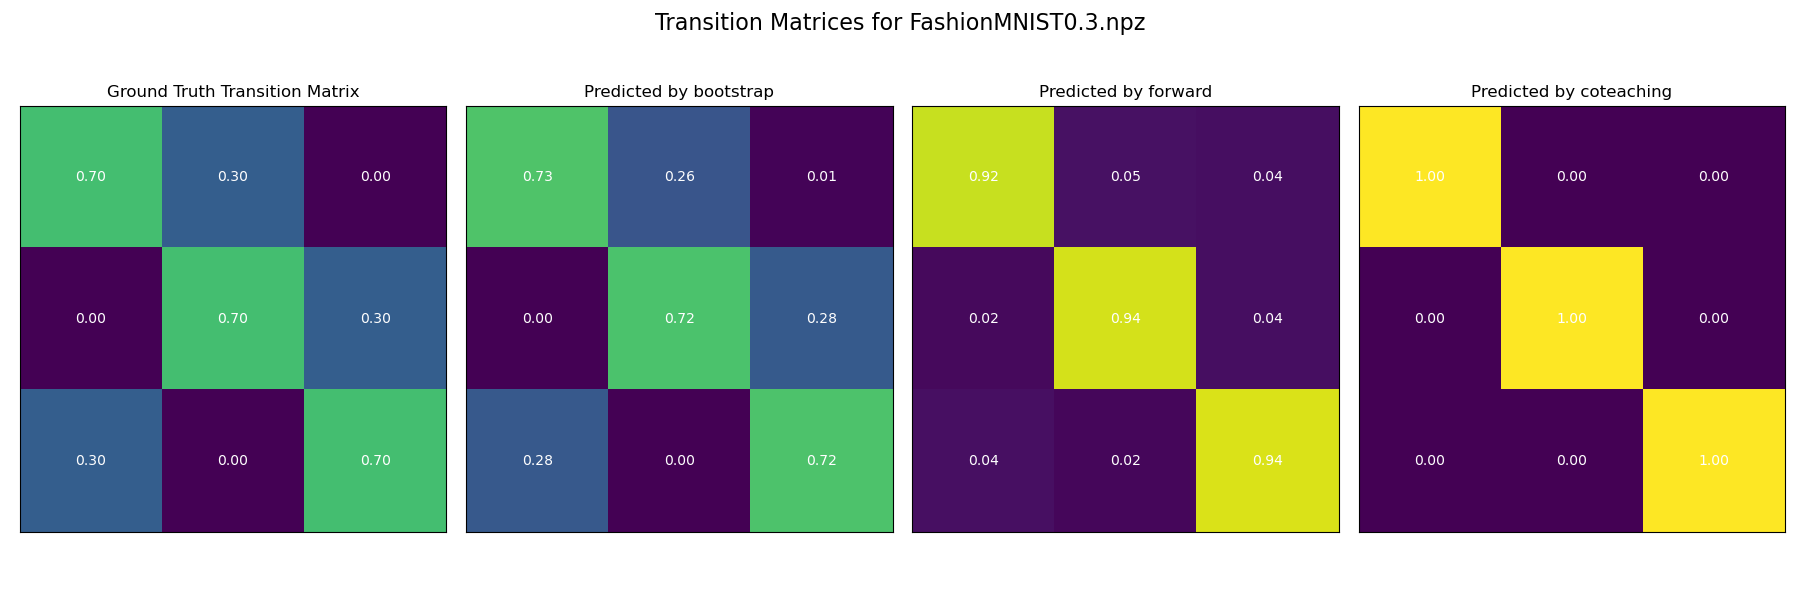
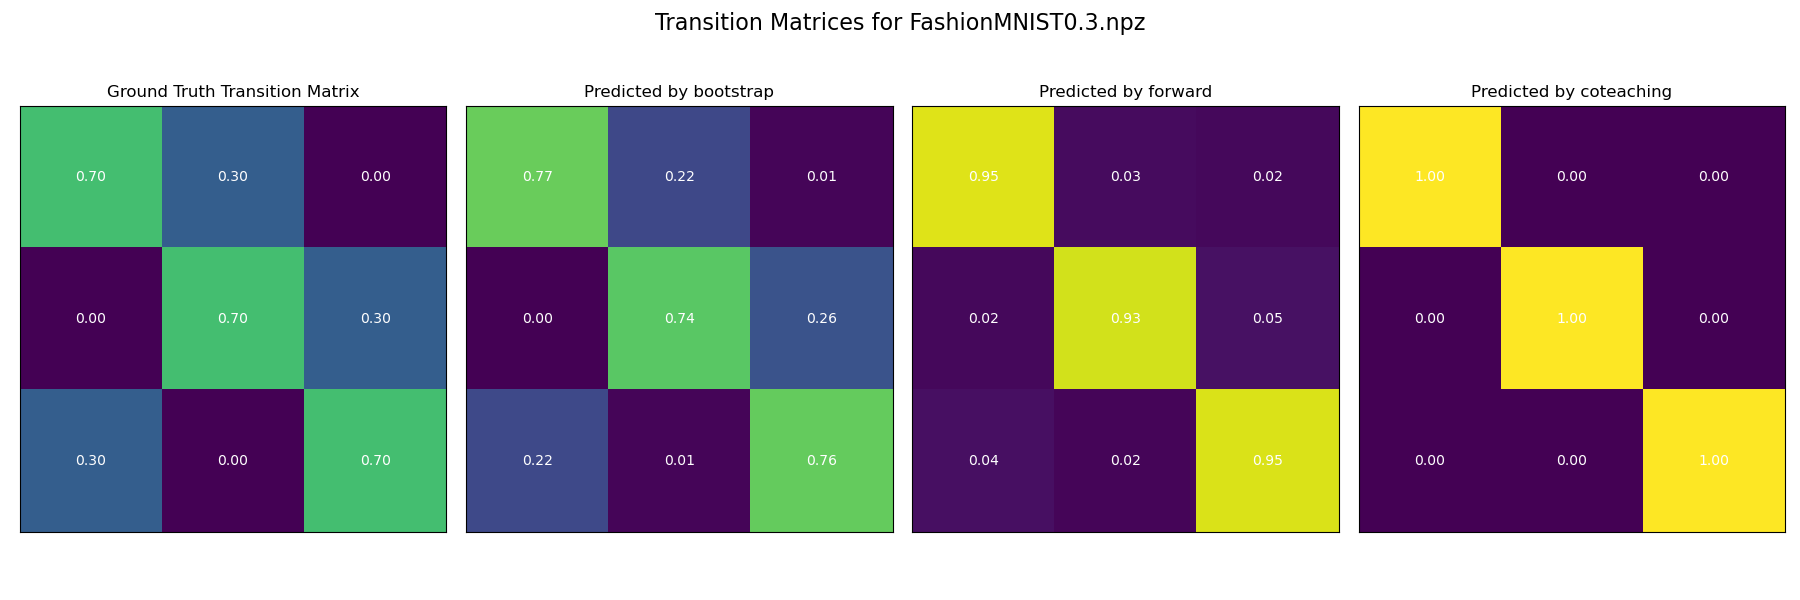
Bug Fixes

Changed region(s): [[0.2489, 0.18, 0.3422, 0.42]]

diff --git a/algorithm/create_charts.py b/algorithm/create_charts.py
@@ -21,7 +21,7 @@ transition_matrices = {
 }
 
 
-def plot_bar_charts():
+def plot_bar_charts(test_accuracies, test_stds):
     for dataset in test_accuracies:
         
         #plot bar charts for test accuracies
@@ -36,11 +36,11 @@ def plot_bar_charts():
         plt.title(f'Test Accuracies for {dataset}')
         plt.tight_layout()
         plt.savefig(os.path.join(chart_dir, f"{dataset}_test_accuracies.png"))
-        plt.show()
+        # plt.show()
 
 
 
-def print_transition_matrices():
+def print_transition_matrices(test_t_matrices):
     for dataset in test_t_matrices:
         print(f"Dataset: {dataset}")
         is_cifar = dataset not in transition_matrices
@@ -80,7 +80,7 @@ def print_transition_matrices():
         plt.suptitle(f'Transition Matrices for {dataset}', fontsize=16)
         plt.tight_layout()
         plt.savefig(os.path.join(chart_dir, f"{dataset}_transition_matrices.png"))
-        plt.show()
+        # plt.show()
 
 
 
@@ -123,8 +123,8 @@ def create_charts():
             except KeyError:
                 continue
 
-    plot_bar_charts()
-    print_transition_matrices()
+    plot_bar_charts(test_accuracies, test_stds)
+    print_transition_matrices(test_t_matrices)
 
 if __name__ == "__main__":
     create_charts()

diff --git a/algorithm/main.py b/algorithm/main.py
@@ -3,11 +3,11 @@ from co_teaching import run_coteaching_experiments
 from forward import run_forward_experiments
 from create_charts import create_charts
 
-RUN_EXPERIMENTS = True
-NUM_RUNS = 3
+RUN_EXPERIMENTS = False
+NUM_RUNS = 10
 OUTPUT_PATH = "results/"
 
-CREATE_CHARTS = False
+CREATE_CHARTS = True
 
 
 if __name__ == "__main__":
